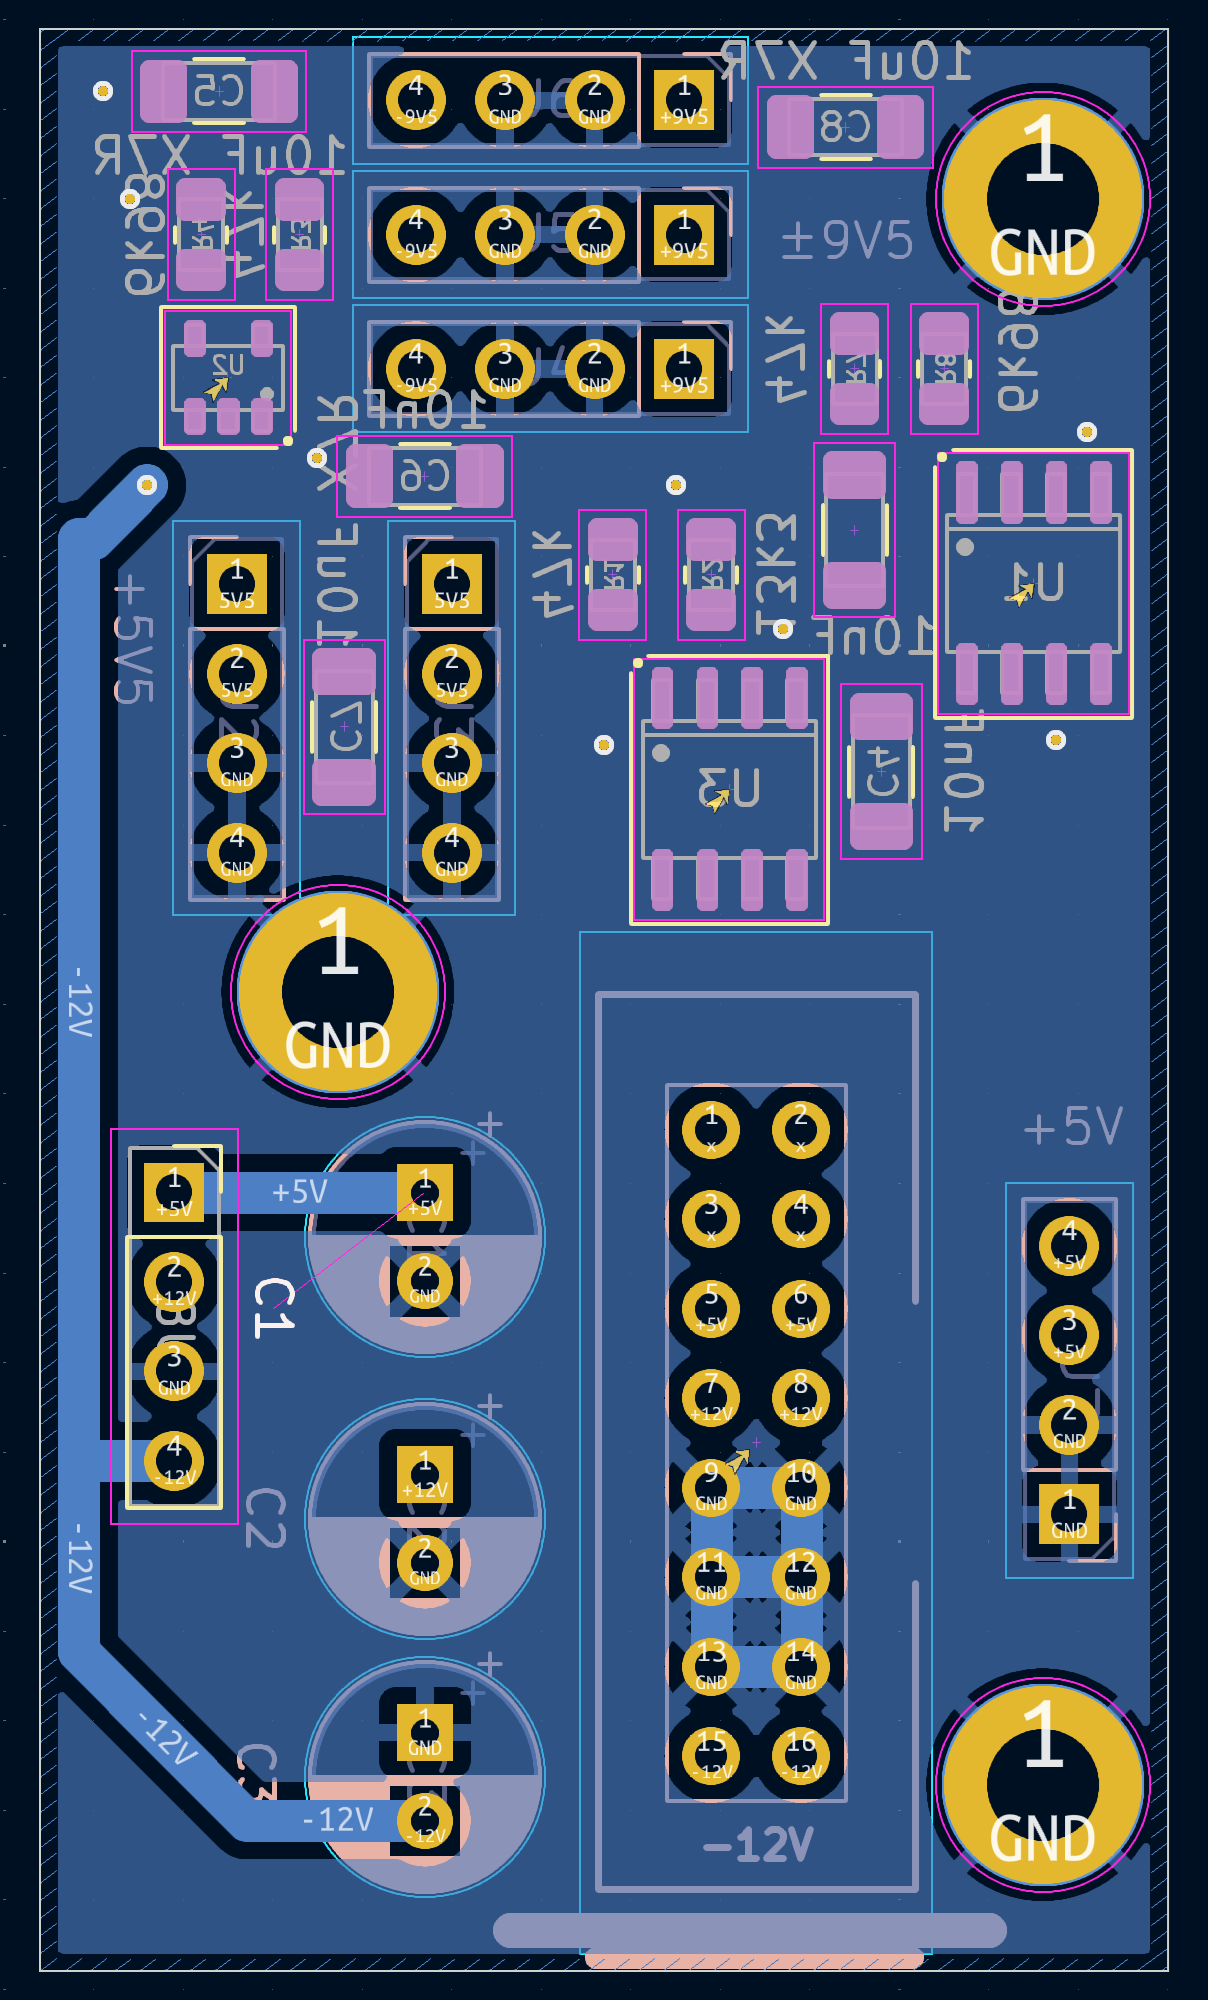
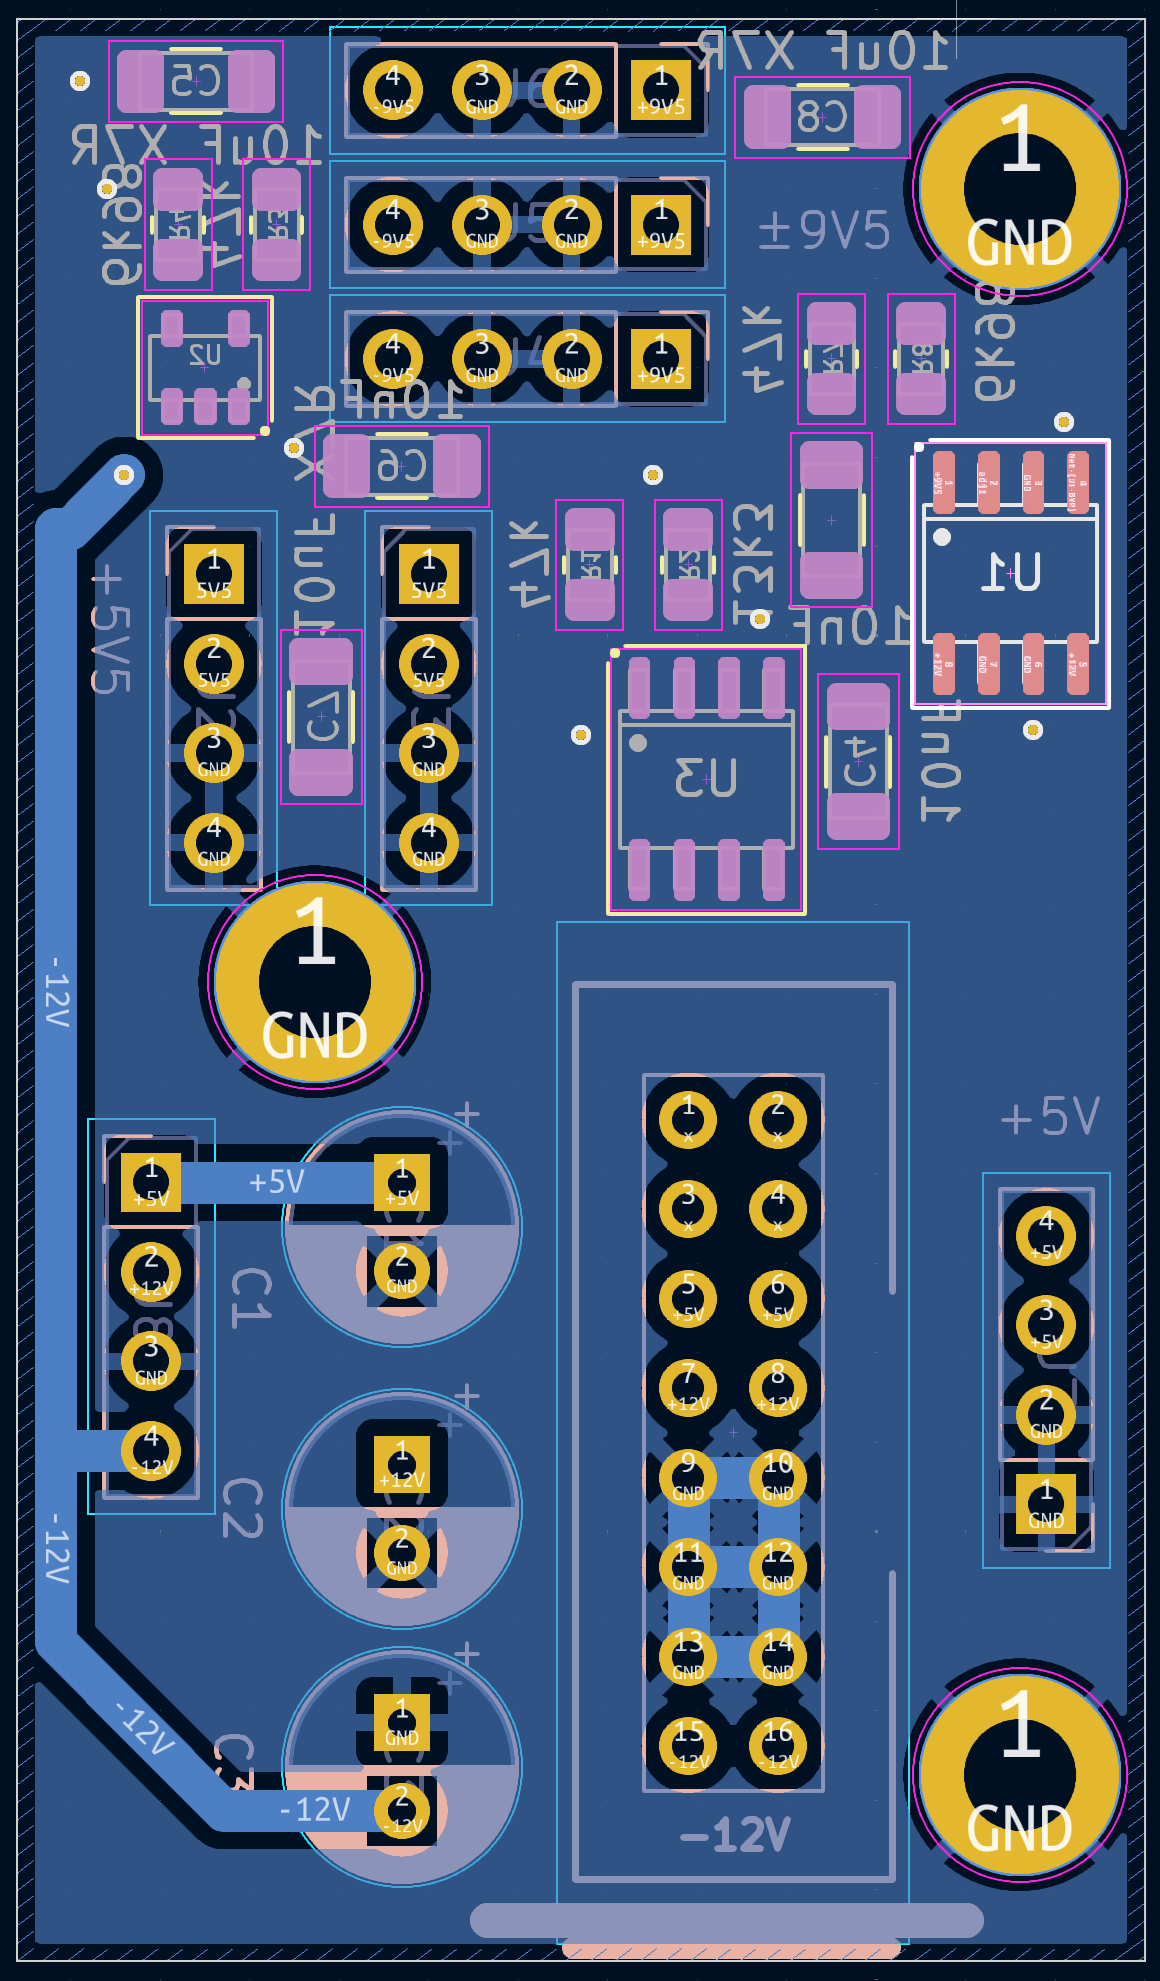
Started integration testing, MPU & Power & PitchDAC

diff --git a/Duophonic/MPU-board.md b/Duophonic/MPU-board.md
@@ -307,6 +307,15 @@ Connectors on back of board go to the display/buttons/encoder/pots board.
 
 Board stacks with the sam-size [MPU-display](./MPU-display.md) board, via 4 stand-offs and the pin connectors. Stand-offs also anchor these boards to the front panel.
 
+### Pitch SPI pinout
+
+Teensy 4.0 for breadboard testing, Teensy 4.1 for final module. Both using SPI(0) so same pinout. CS for second PitchDAC is 8, not 10.
+
+| Board      | GNDD                | CS | MOSI | SCLK | 3V3               | GNDD                |
+|------------|---------------------|----|------|------|-------------------|---------------------|
+| T4.1 (SPI) | (between 13 & 41)   | 10 | 11   | 13   | (between 12 & 24) | (between 13 & 41)   |
+| T4.0 (SPI) | (before 0)          | 10 | 11   | 13   | (after 23)        | (before 0)          |
+
 ## BOM
 
 ## Development & Testing plan
@@ -317,10 +326,11 @@ Board stacks with the sam-size [MPU-display](./MPU-display.md) board, via 4 stan
 - [ ] Test DIN MIDI input
 - [ ] ~~Test I2C display, see if update speed okay and feasible for menus~~
 - [x] Test SPI display
+- [ ] Update all board graphics to use latest versions, some are old.
 - [ ] start on menu/dashboard layout
 - [ ] Measure switch bounce, test software bounce, try hardware debounces
 - [x] Get Thonk encoders, encoder knobs, buttons
-- [x] Test PWM of RGB LED.
+- [x] ~~Test PWM of RGB LED.~~
   - [x] [Problems getting to exactly 0 and 100%](https://forum.pjrc.com/index.php?threads/full-range-pwm-for-rgb-led-control.74386/)
   - [x] Solved by special-casing PWM extremes.
   - [x] Test Adafruit LEDs instead
@@ -329,9 +339,9 @@ Board stacks with the sam-size [MPU-display](./MPU-display.md) board, via 4 stan
 - [ ] Test FreqCount
 - [x] Test FreqMeasure (and FreqMeasureMulti)
 - [x] Sketch [front panel](./Panel.md) to get PCB dimensions.
-- [ ] Fabricate & test [octal perfDAC/CCDAC](./performance-dac.md) board (same board, different CS)
+- [x] Fabricate & test [octal perfDAC/CCDAC](./performance-dac.md) board (same board, different CS)
   - DAC and level shift board ordered
-- [ ] Fabricate [pitch CV](./pitch-dac.md) board, test
+- [x] Fabricate [pitch CV](./pitch-dac.md) board, test
 - [ ] Write higher-level, MPE-capable MIDI library
 - [ ] Fabricate MCU and display carrier board
 - [ ] Front panel

diff --git a/Duophonic/pitch-dac.md b/Duophonic/pitch-dac.md
@@ -220,6 +220,10 @@ Separate digital and analog ground planes.
 ![osh](./img/pitchdac-top-osh-v03.png)
 ![osh back](./img/pitchdac-bottom-osh-v03.png)
 
+### 9V5 pinout
+
+Left (goes to diode) to right: +9V5, GND, GND, -9V5
+
 ### Jacks board
 
 Spacing of the two pitch DC boards may vary due to tolerances on trimming the upper and lower connectors from the [Vref board](./voltage-ref-LT1236.md) and so the front panel jacks board should make connections using drilled slots rather than round holes. These re natively supported in KiCad (unlike Eagle) and supported by OSH Park ([details](https://docs.oshpark.com/submitting-orders/slots/)).

diff --git a/Duophonic/Power.md b/Duophonic/Power.md
@@ -255,6 +255,22 @@ At 135C/w, 23.5C above ambient.
 
 v0.1 ordered from OSH Park 8 April 2025
 
+### 9V5 pinout
+
+Right (nearest upper mounting hole) to left: -9V5, GND, GND, +9V5
+
+### 5V5 pinout
+
+Bottom (nearest middle mounting hole) to top: GND, GND, +5V5, +5V5
+
+### Unregulated 5V (teensy) pinout
+
+The side of the Eurorack connector _without_ caps: Bottom (nearest lower mounting hole) to top: GND, GND, +5V, +5V
+
+### Multi-voltage unregulated pinout
+
+The side of the Eurorack connector _with_ caps: Bottom to top: -12V, GND, +12V, +5V
+
 ## BOM
 
 For 1 board; get enough for 3 boards
